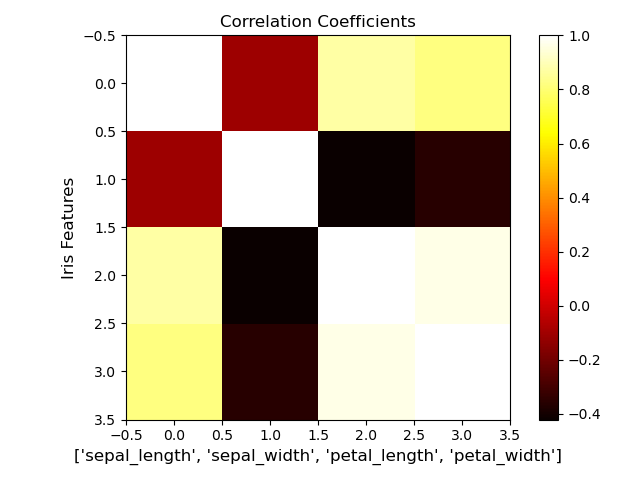
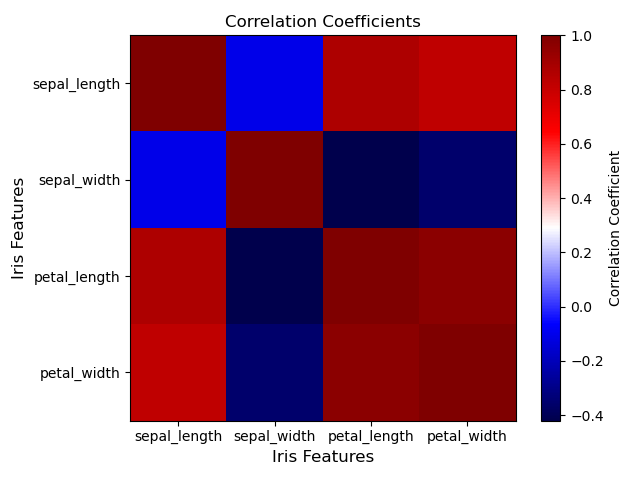
happy with heatmap now

diff --git a/analysis.py b/analysis.py
@@ -11,8 +11,10 @@
 import matplotlib.pyplot as plt
 # I will import numpy so i can perform various mathematical operations with my arrays 
 import numpy as np
-#I will import pandas because it is great for with dataframes
+# I will import pandas because it is great for with dataframes
 import pandas as pd
+# sklearn is a popular machine learning library that provides tools for data preprocessing, model selection, and evaluation.
+from sklearn.linear_model import LinearRegression as lr
 
 # first things first is to import the data set
 path = "/home/gerry/Downloads/Data_Analytics_Course/pands/pands-project/data/iris/"
@@ -608,32 +610,58 @@ data = (iris_df.corr(numeric_only=True))
 features = ["sepal_length", "sepal_width", "petal_length", "petal_width"]
 
 
-im = ax.imshow(data, cmap="hot")
+im = ax.imshow(data, cmap="seismic")
+# choosing the color for color map - reference
         
-# okay, just messing around with some of the charts here https://stackoverflow.com/questions/33282368/plotting-a-2d-heatmap i found  colorbar
+# okay, just messing around with some of the charts here https://stackoverflow.com/questions/33282368/plotting-a-2d-heatmap 
+# and https://www.geeksforgeeks.org/display-the-pandas-dataframe-in-heatmap-style/ I found  colorbar
 # which is a legend for how strong the correlation is
-plt.colorbar(im)
-
-# row_labels=features, col_labels=features
-#interpolation="nearest"
-#ax.set_xticks(np.arange(data.shape[1]+1)-.5, minor=True)
-#ax.set_yticks(np.arange(data.shape[0]+1)-.5, minor=True)
-#ax.grid(which="minor", color="r", linestyle='-', linewidth=3)
-#ax.tick_params(which="minor", bottom=False, left=False)
+plt.colorbar(im, label="Correlation Coefficient")
 
 # Show all ticks and label them with the respective list entries
-#ax.set_xticks(labels=features)
-#ax.set_yticks(labels=features)
-
+plt.xticks(range(len(data)), data.columns) 
+plt.yticks(range(len(data)), data.columns) 
 
 # axis labels
-ax.set_xlabel(features, fontsize=12)
+ax.set_xlabel("Iris Features", fontsize=12)
 ax.set_ylabel("Iris Features", fontsize=12)
 
 ax.set_title("Correlation Coefficients")
 fig.tight_layout()
 #plt.show()
 plt.savefig("heatmap_of_correlation_coefficients.png")
+
+#****************************************************************************************************************************
+#******************************** R-Squared ********************************************************************************
+#****************************************************************************************************************************
+
+
+
+model = lr()
+
+# Train the model
+model.fit(sepal_widths,sepal_lengths)
+
+# Evaluate the model
+r2_score = model.score(sepal_widths,sepal_lengths)
+print(f"The R-squared value of sepal widths regressed aginst sepal lengths is: {r2_score}")
+
+from sklearn.metrics import r2_score
+
+print(f"{(r2_score(sepal_widths, sepal_lengths))}")
+from scipy import stats
+
+slope, intercept, r_value, p_value, std_err = stats.linregress(sepal_widths, sepal_lengths)
+print("slope: %f    intercept: %f" % (slope, intercept))
+
+# Train the model
+model.fit(petal_widths,petal_lengths)
+
+# Evaluate the model
+r2_score = model.score(petal_widths,petal_lengths)
+print(f"The R-squared value of petal widths regressed aginst petal lengths is: {r2_score}")
+
+
 
 
 
